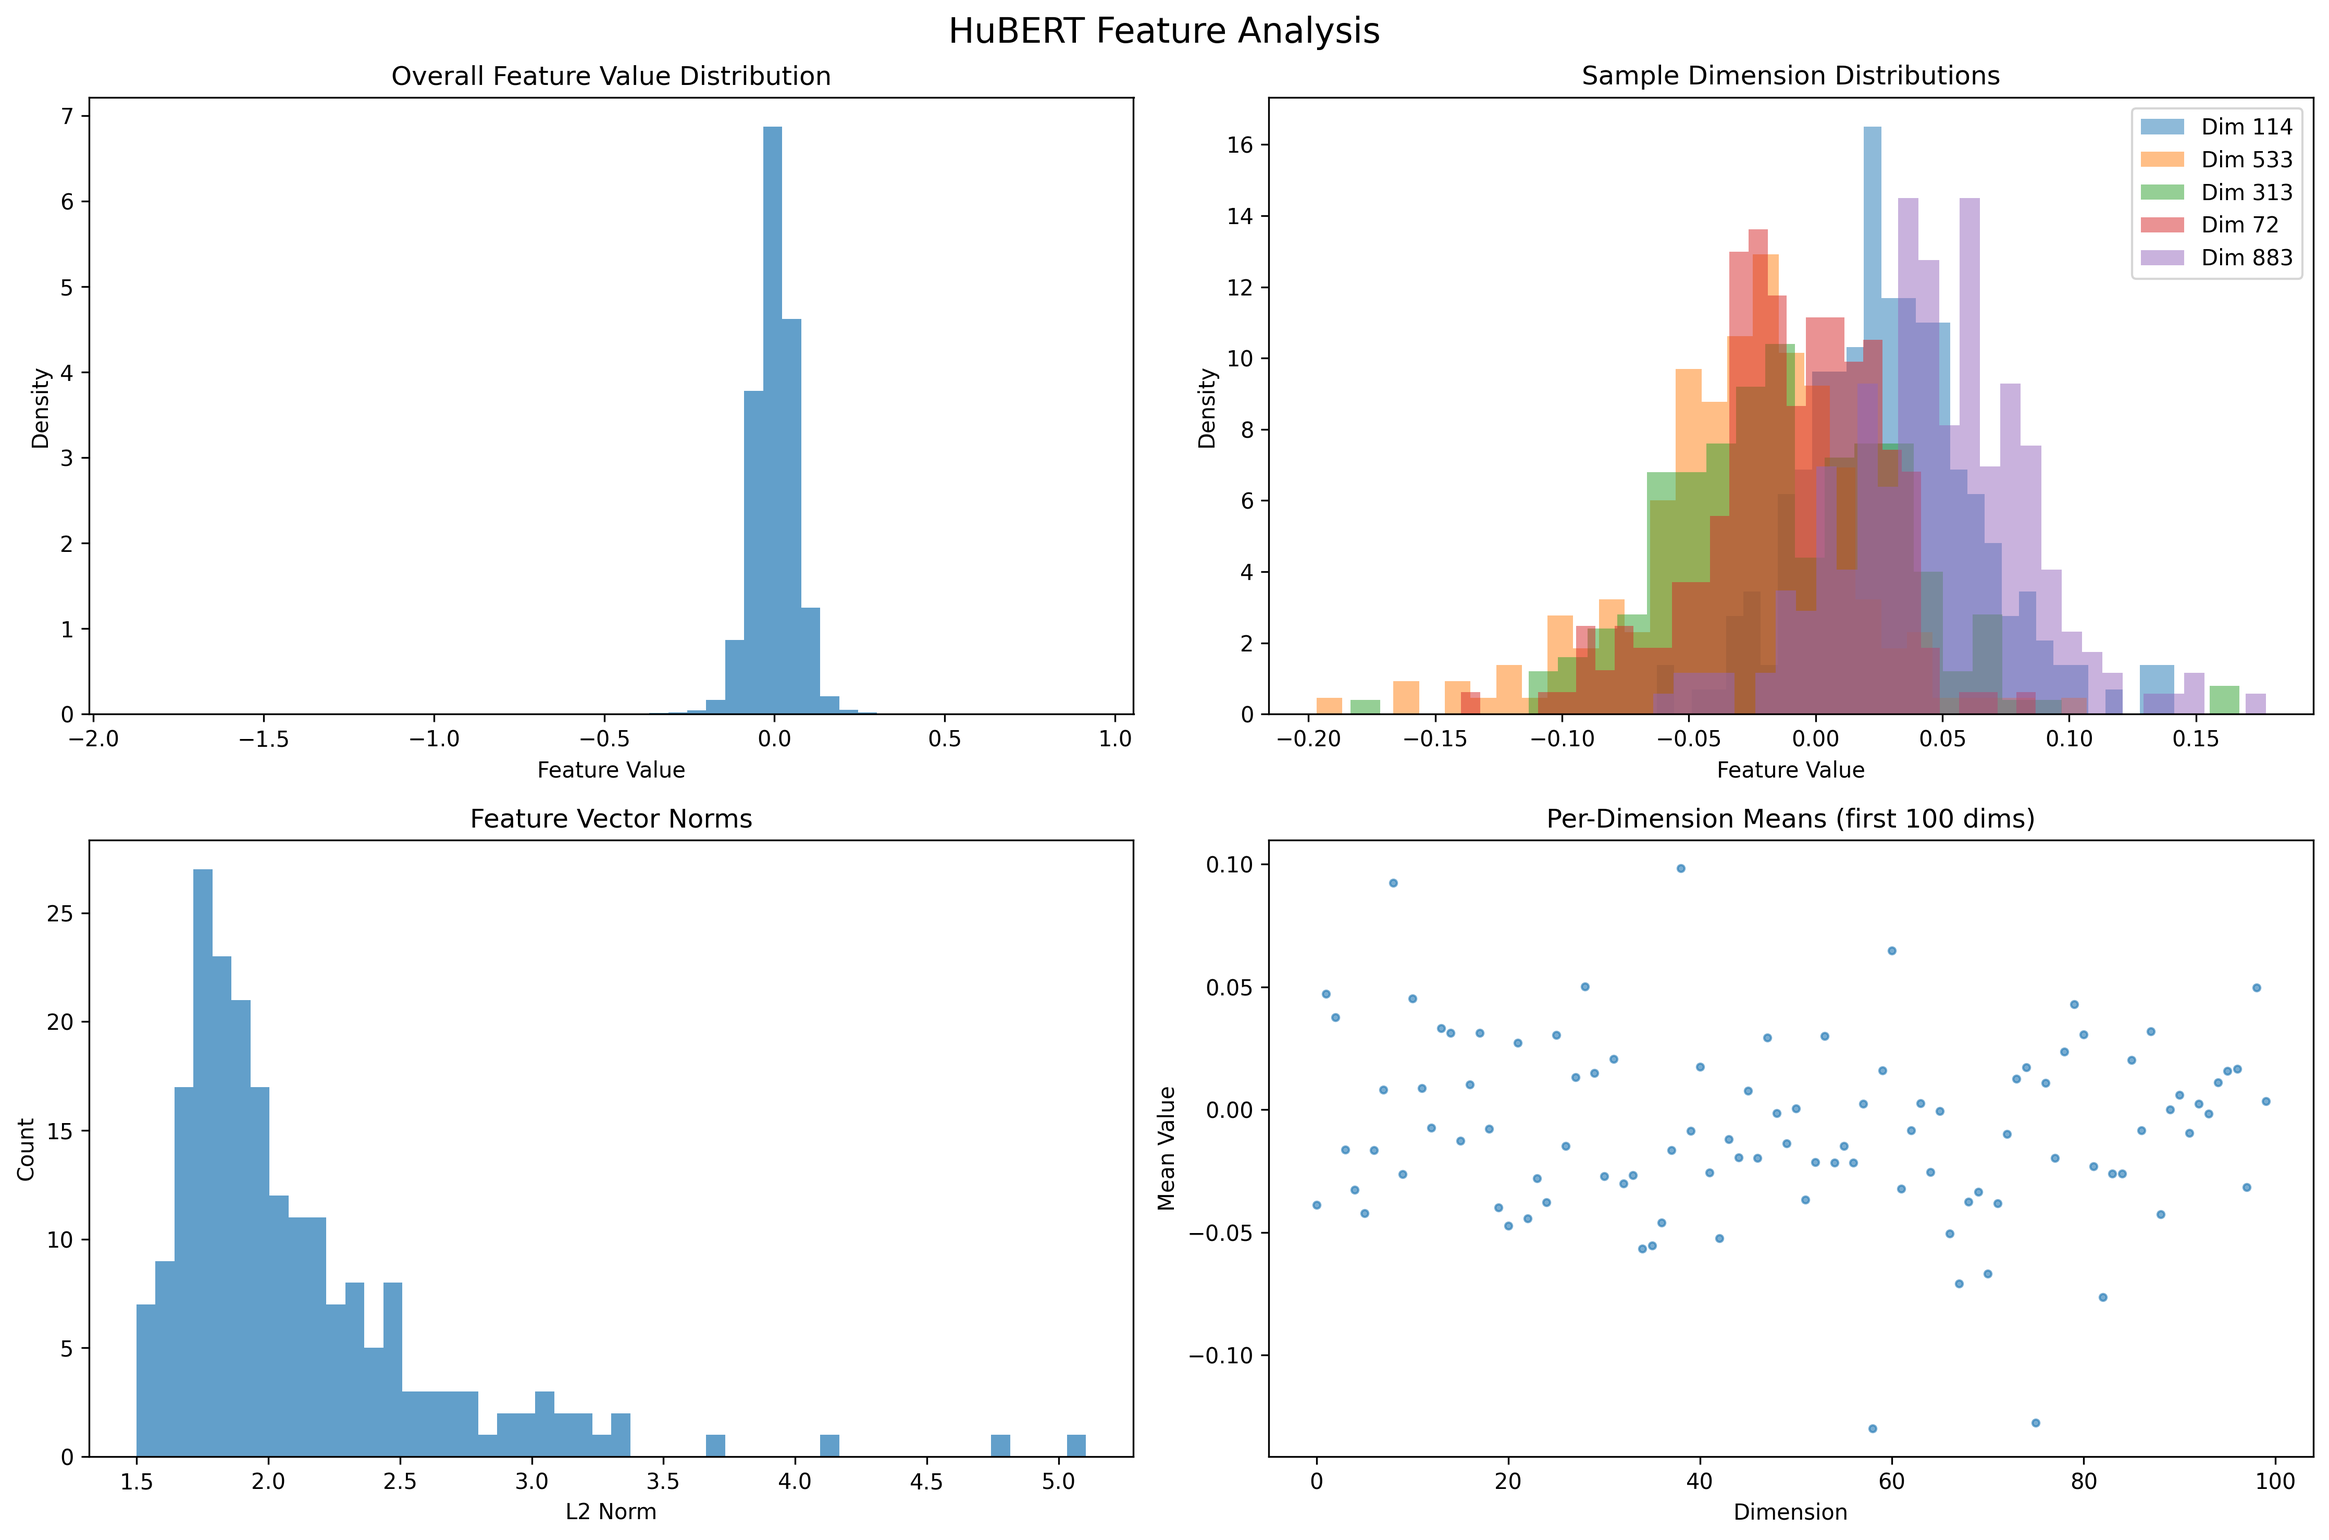
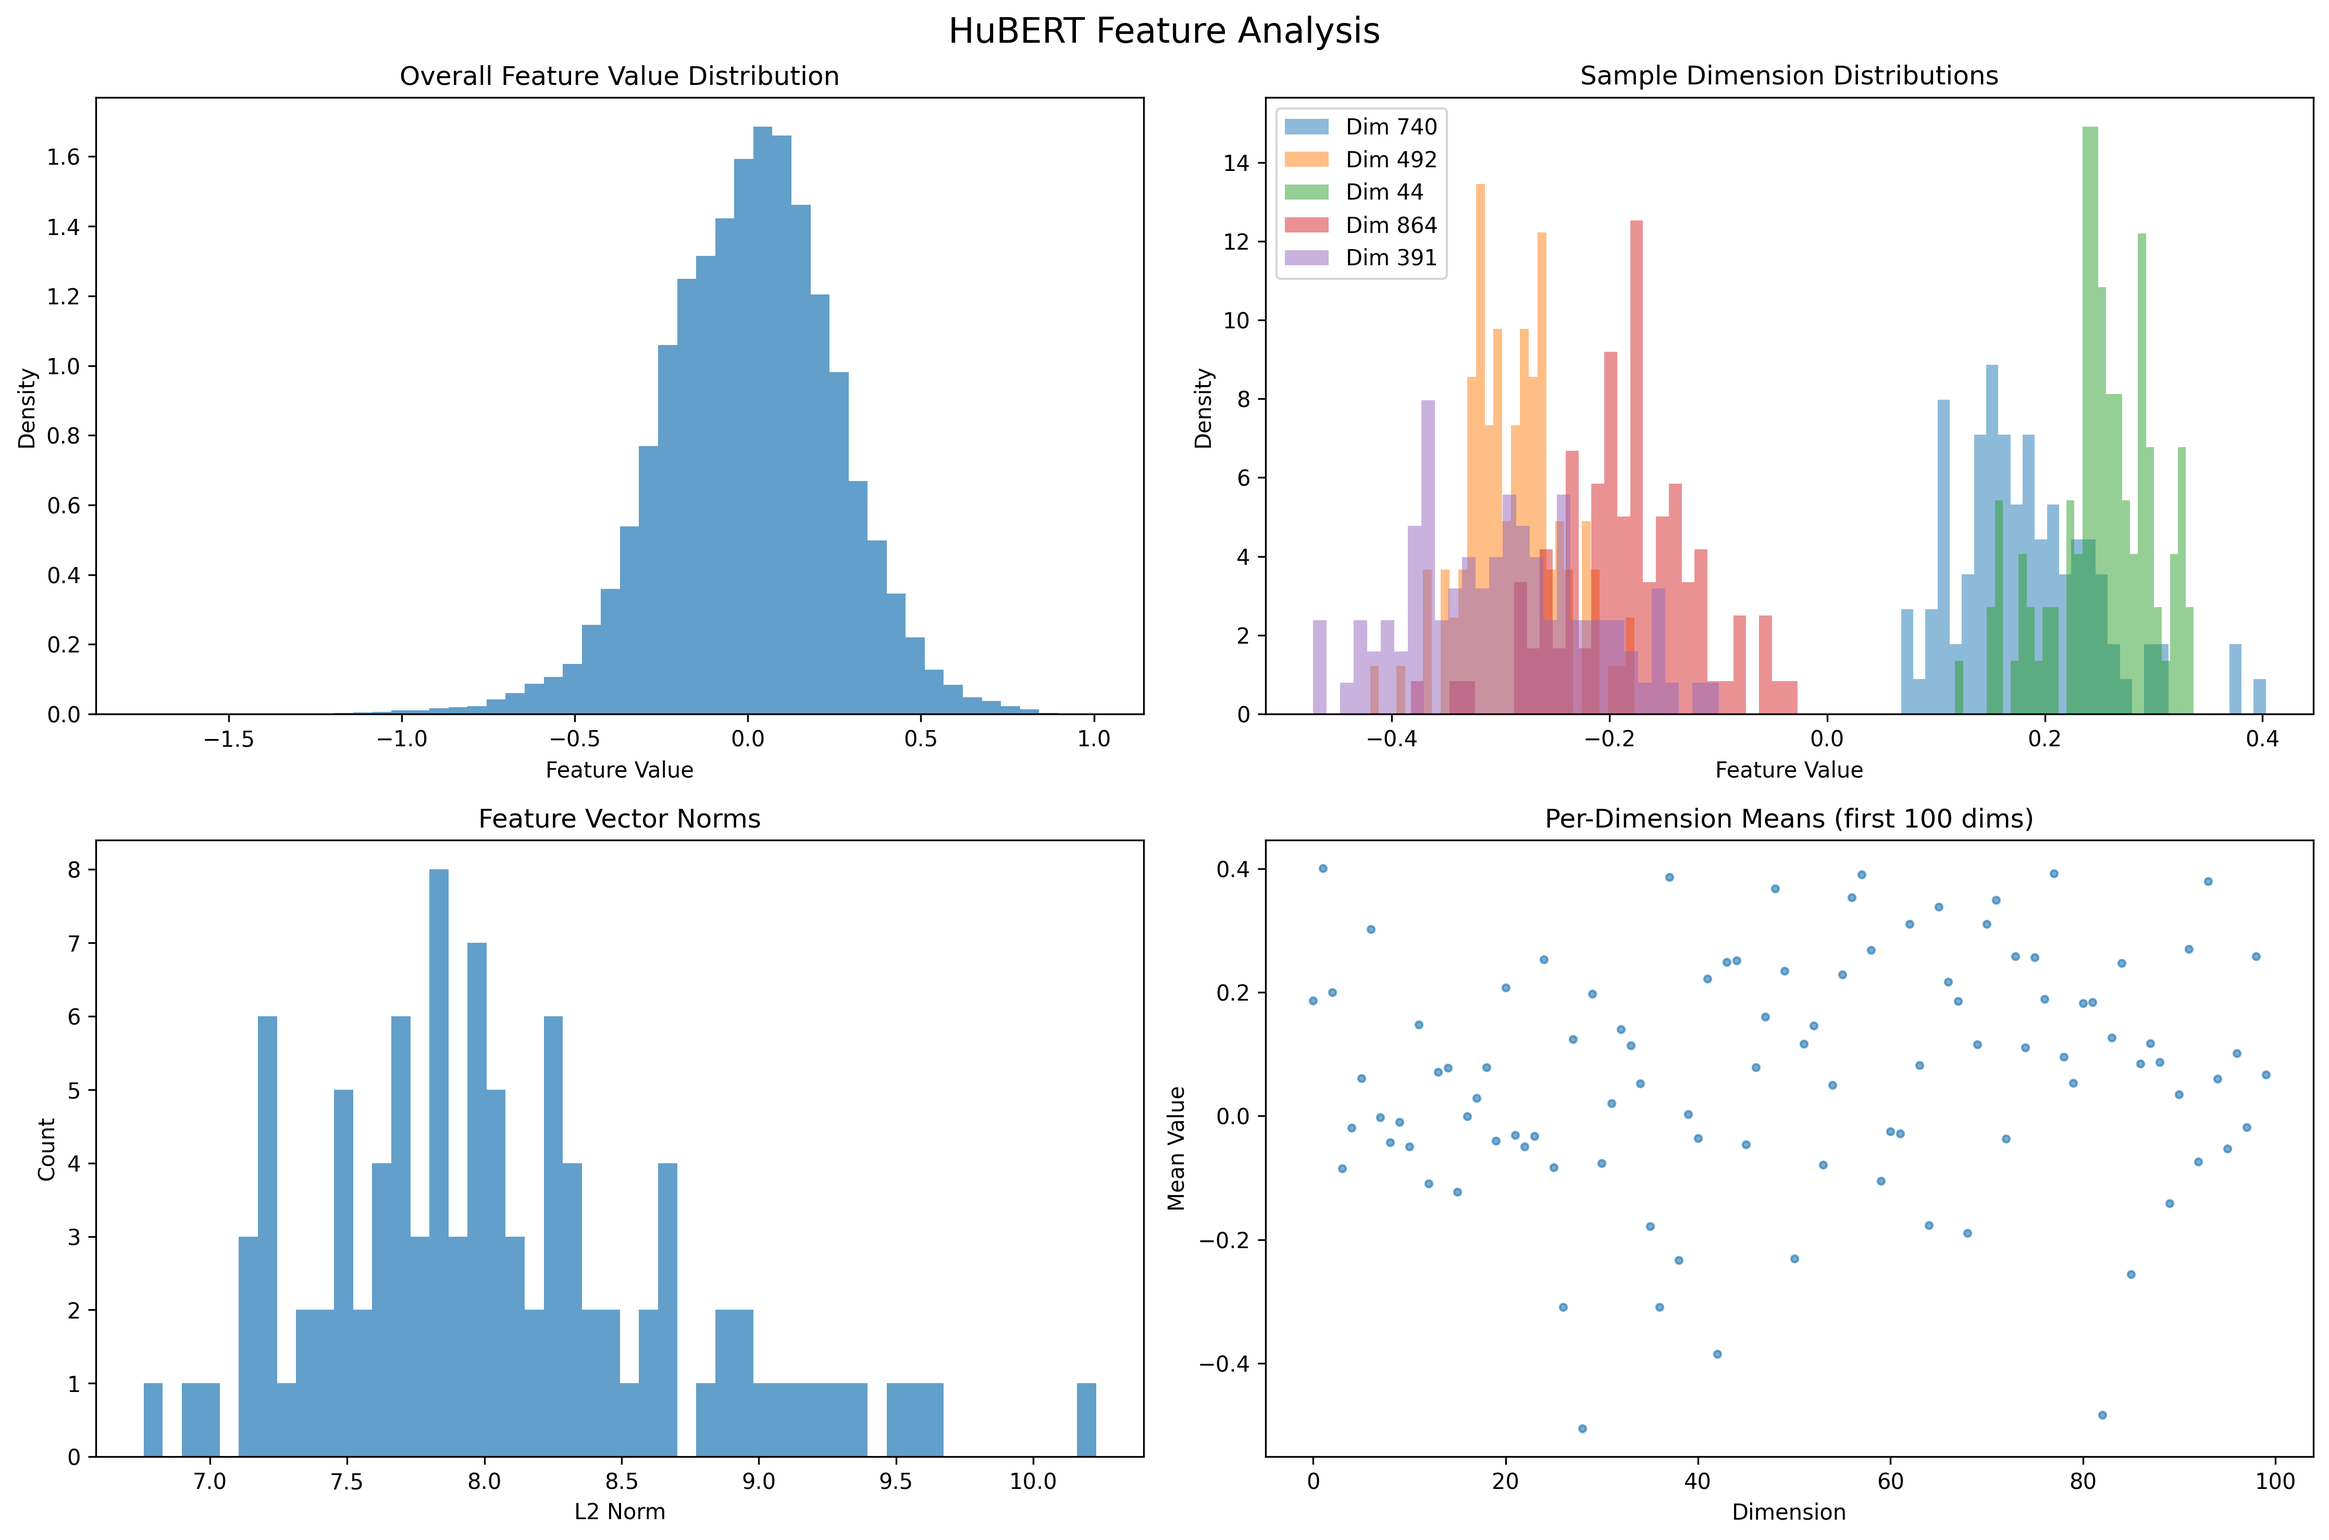
added face cropping based on bounding boxes data from csv file

diff --git a/extract_maeVideo_embedding.py b/extract_maeVideo_embedding.py
@@ -14,6 +14,7 @@ import cv2
 import tempfile
 import shutil
 from PIL import Image
+import pandas as pd
 
 import torch
 import torch.nn.parallel
@@ -34,11 +35,26 @@ from maeVideo.video_transform import *
 
 class SmartVideoDataset(torch.utils.data.Dataset):
     """Dataset that extracts only needed frames from videos on-the-fly"""
-    def __init__(self, video_path, num_segments=8, new_length=2, transform=None):
+    def __init__(self, video_path, num_segments=8, new_length=2, transform=None, bbox_csv=None, dia_id=None, utt_id=None, split="train"):
         self.video_path = video_path
         self.num_segments = num_segments
         self.new_length = new_length
         self.transform = transform
+        self.bbox_csv = bbox_csv
+        self.dia_id = dia_id
+        self.utt_id = utt_id
+        self.split = split
+        
+        # Load bounding box data if provided
+        self.bbox_data = None
+        if bbox_csv and os.path.exists(bbox_csv) and dia_id is not None and utt_id is not None:
+            try:
+                df = pd.read_csv(bbox_csv)
+                self.bbox_data = df[(df["Split"] == self.split) & (df["Dialogue ID"] == dia_id) & (df["Utterance ID"] == utt_id)]
+                print(f"Loaded {len(self.bbox_data)} bounding box entries for {self.split} split, dia{dia_id}_utt{utt_id}")
+            except Exception as e:
+                print(f"Warning: Could not load bbox data: {e}")
+                self.bbox_data = None
         
         # Get total frame count without extracting frames
         self.total_frames = self._get_frame_count()
@@ -91,10 +107,28 @@ class SmartVideoDataset(torch.utils.data.Dataset):
                 break
                 
             if current_frame in frame_index_set:
+                # Apply face cropping if bbox data is available
+                processed_frame = frame
+                if self.bbox_data is not None:
+                    frame_bbox = self.bbox_data[self.bbox_data["Frame Number"] == current_frame]
+                    if len(frame_bbox) > 0:
+                        # Use the first bounding box if multiple exist
+                        bbox = frame_bbox.iloc[0]
+                        y_top, y_bottom = int(bbox["Y Top"]), int(bbox["Y Bottom"])
+                        x_left, x_right = int(bbox["X Left"]), int(bbox["X Right"])
+                        
+                        # Validate coordinates
+                        if (y_top >= 0 and y_bottom <= frame.shape[0] and 
+                            x_left >= 0 and x_right <= frame.shape[1] and
+                            y_bottom > y_top and x_right > x_left):
+                            processed_frame = frame[y_top:y_bottom, x_left:x_right]
+                        else:
+                            print(f"Warning: Invalid bbox coordinates for frame {current_frame}")
+                
                 # Save this frame
                 frame_filename = f"{current_frame:05d}.bmp"
                 frame_path = os.path.join(self.temp_dir, frame_filename)
-                cv2.imwrite(frame_path, frame)
+                cv2.imwrite(frame_path, processed_frame)
                 frame_paths.append(frame_path)
                 
             current_frame += 1
@@ -154,6 +188,23 @@ class SmartVideoDataset(torch.utils.data.Dataset):
         if hasattr(self, 'temp_dir') and os.path.exists(self.temp_dir):
             shutil.rmtree(self.temp_dir)
 
+def extract_ids_from_filename(video_name):
+    """Extract dialogue ID and utterance ID from video filename"""
+    # Assuming format like "dia123_utt456" or similar
+    try:
+        if "dia" in video_name and "utt" in video_name:
+            parts = video_name.split("_")
+            dia_part = [p for p in parts if p.startswith("dia")]
+            utt_part = [p for p in parts if p.startswith("utt")]
+            
+            if dia_part and utt_part:
+                dia_id = int(dia_part[0][3:])  # Remove "dia" prefix
+                utt_id = int(utt_part[0][3:])  # Remove "utt" prefix
+                return dia_id, utt_id
+    except:
+        pass
+    
+    return None, None
 
 def load_state_dict(model, state_dict, prefix='', ignore_missing="relative_position_index"):
     missing_keys = []
@@ -220,6 +271,9 @@ if __name__ == '__main__':
     parser.add_argument('--cls_token', action='store_false', dest='global_pool',
                         help='Use class token instead of global pool for classification')
     parser.add_argument('--batch_size', default=1, type=int)
+    parser.add_argument('--bbox_csv', type=str, default=None, help='Path to CSV file with bounding box coordinates')
+    parser.add_argument('--split', type=str, default='train', choices=['train', 'val', 'test'], 
+                        help='Dataset split to use for bounding box filtering (default: train)')
 
     params = parser.parse_args()
 
@@ -329,8 +383,13 @@ if __name__ == '__main__':
         
         print(f"Processing video '{video_name}' ({i}/{len(video_files)})...")
 
-        # Create smart dataset that only extracts needed frames
-        dataset = SmartVideoDataset(video_path, transform=video_transform)
+        # Extract dialogue and utterance IDs for bbox lookup
+        dia_id, utt_id = extract_ids_from_filename(video_name)
+
+        # Create smart dataset that only extracts needed frames with optional face cropping
+        dataset = SmartVideoDataset(video_path, transform=video_transform,
+                                   bbox_csv=params.bbox_csv, dia_id=dia_id, utt_id=utt_id, 
+                                   split=params.split)
         
         try:
             # Clear GPU cache before processing

diff --git a/extract_mae_embedding.py b/extract_mae_embedding.py
@@ -11,6 +11,7 @@ import matplotlib.pyplot as plt
 import cv2
 import tempfile
 import shutil
+import pandas as pd
 
 import torch
 import torch.nn.parallel
@@ -34,9 +35,25 @@ import scipy.stats as stats
 
 class TempVideoDataset(torch.utils.data.Dataset):
     """Dataset that extracts frames on-the-fly from a video file"""
-    def __init__(self, video_path, transform=None):
+    def __init__(self, video_path, transform=None, bbox_csv=None, dia_id=None, utt_id=None, split="train"):
         self.video_path = video_path
         self.transform = transform
+        self.bbox_csv = bbox_csv
+        self.dia_id = dia_id
+        self.utt_id = utt_id
+        self.split = split
+        
+        # Load bounding box data if provided
+        self.bbox_data = None
+        if bbox_csv and os.path.exists(bbox_csv) and dia_id is not None and utt_id is not None:
+            try:
+                df = pd.read_csv(bbox_csv)
+                self.bbox_data = df[(df["Split"] == self.split) & (df["Dialogue ID"] == dia_id) & (df["Utterance ID"] == utt_id)]
+                print(f"Loaded {len(self.bbox_data)} bounding box entries for {self.split} split, dia{dia_id}_utt{utt_id}")
+            except Exception as e:
+                print(f"Warning: Could not load bbox data: {e}")
+                self.bbox_data = None
+
         self.frames = self._extract_frames_to_temp()
         
     def _extract_frames_to_temp(self):
@@ -52,10 +69,28 @@ class TempVideoDataset(torch.utils.data.Dataset):
             if not success:
                 break
                 
+            # Apply face cropping if bbox data is available
+            processed_frame = frame
+            if self.bbox_data is not None:
+                frame_bbox = self.bbox_data[self.bbox_data["Frame Number"] == frame_count]
+                if len(frame_bbox) > 0:
+                    # Use the first bounding box if multiple exist
+                    bbox = frame_bbox.iloc[0]
+                    y_top, y_bottom = int(bbox["Y Top"]), int(bbox["Y Bottom"])
+                    x_left, x_right = int(bbox["X Left"]), int(bbox["X Right"])
+                    
+                    # Validate coordinates
+                    if (y_top >= 0 and y_bottom <= frame.shape[0] and 
+                        x_left >= 0 and x_right <= frame.shape[1] and
+                        y_bottom > y_top and x_right > x_left):
+                        processed_frame = frame[y_top:y_bottom, x_left:x_right]
+                    else:
+                        print(f"Warning: Invalid bbox coordinates for frame {frame_count}")
+                
             # Save frame temporarily
             frame_filename = f"{frame_count + 1:05d}.bmp"
             frame_path = os.path.join(self.temp_dir, frame_filename)
-            cv2.imwrite(frame_path, frame)
+            cv2.imwrite(frame_path, processed_frame)
             frame_paths.append(frame_path)
             frame_count += 1
             
@@ -78,6 +113,23 @@ class TempVideoDataset(torch.utils.data.Dataset):
         if hasattr(self, 'temp_dir') and os.path.exists(self.temp_dir):
             shutil.rmtree(self.temp_dir)
 
+def extract_ids_from_filename(video_name):
+    """Extract dialogue ID and utterance ID from video filename"""
+    # Assuming format like "dia123_utt456" or similar
+    try:
+        if "dia" in video_name and "utt" in video_name:
+            parts = video_name.split("_")
+            dia_part = [p for p in parts if p.startswith("dia")]
+            utt_part = [p for p in parts if p.startswith("utt")]
+            
+            if dia_part and utt_part:
+                dia_id = int(dia_part[0][3:])  # Remove "dia" prefix
+                utt_id = int(utt_part[0][3:])  # Remove "utt" prefix
+                return dia_id, utt_id
+    except:
+        pass
+    
+    return None, None
 
 def extract(data_loader, model, device):
     model.eval()
@@ -112,6 +164,9 @@ if __name__ == '__main__':
     parser.add_argument('--cls_token', action='store_false', dest='global_pool',
                         help='Use class token instead of global pool for classification')
     parser.add_argument('--batch_size', default=512, type=int)
+    parser.add_argument('--bbox_csv', type=str, default=None, help='Path to CSV file with bounding box coordinates')
+    parser.add_argument('--split', type=str, default='train', choices=['train', 'val', 'test'], 
+                        help='Dataset split to use for bounding box filtering (default: train)')
 
     params = parser.parse_args()
 
@@ -139,7 +194,8 @@ if __name__ == '__main__':
     
     if True:
         checkpoint_file = os.path.join(
-            "/scratch/data/bikash_rs/vivek/MELD-feature-extract/models_weights", 
+            "/scratch/data/bikash_rs/vivek/MELD-feature-extract/models_weights",
+            # "D:\Acads\BTP\preprocessing_code\models_weights",
             f"{params.pretrain_model}.pth"
         )
         checkpoint = torch.load(checkpoint_file, map_location=params.device, weights_only=False)
@@ -173,8 +229,12 @@ if __name__ == '__main__':
         
         print(f"Processing video '{video_name}' ({i}/{len(video_files)})...")
 
+        # Extract dialogue and utterance IDs for bbox lookup
+        dia_id, utt_id = extract_ids_from_filename(video_name)
         # Create temporary dataset
-        dataset = TempVideoDataset(video_path, transform=transform)
+        dataset = TempVideoDataset(video_path, transform=transform, 
+                                  bbox_csv=params.bbox_csv, dia_id=dia_id, utt_id=utt_id, 
+                                  split=params.split)
         
         try:
             if len(dataset) == 0:

diff --git a/download_hubert_model.py b/download_hubert_model.py
@@ -45,9 +45,9 @@ def download_hubert_model(model_name, local_dir):
 
 if __name__ == '__main__':
     parser = argparse.ArgumentParser(description='Download HuBERT model locally')
-    parser.add_argument('--model_name', type=str, default='TencentGameMate/chinese-hubert-large',
+    parser.add_argument('--model_name', type=str, default='facebook/hubert-large-ls960-ft',
                        help='HuBERT model name from Hugging Face')
-    parser.add_argument('--local_dir', type=str, default='./models/chinese-hubert-large',
+    parser.add_argument('--local_dir', type=str, default='./models/hubert-large-english',
                        help='Local directory to save the model')
     
     args = parser.parse_args()

diff --git a/extract_hubert_embeddings.py b/extract_hubert_embeddings.py
@@ -257,7 +257,7 @@ if __name__ == '__main__':
                        help='feature level [UTTERANCE only for audio]')
     parser.add_argument('--hubert_model', type=str, default='facebook/hubert-large-ls960-ft', 
                        help='HuBERT model name or path')
-    parser.add_argument('--feature_name', type=str, default='hubert_large', 
+    parser.add_argument('--feature_name', type=str, default='hubert_large_english', 
                        help='name for saved features')
     parser.add_argument('--device', default='cuda:0', help='device to use for extraction')
     parser.add_argument('--batch_size', default=8, type=int, 
